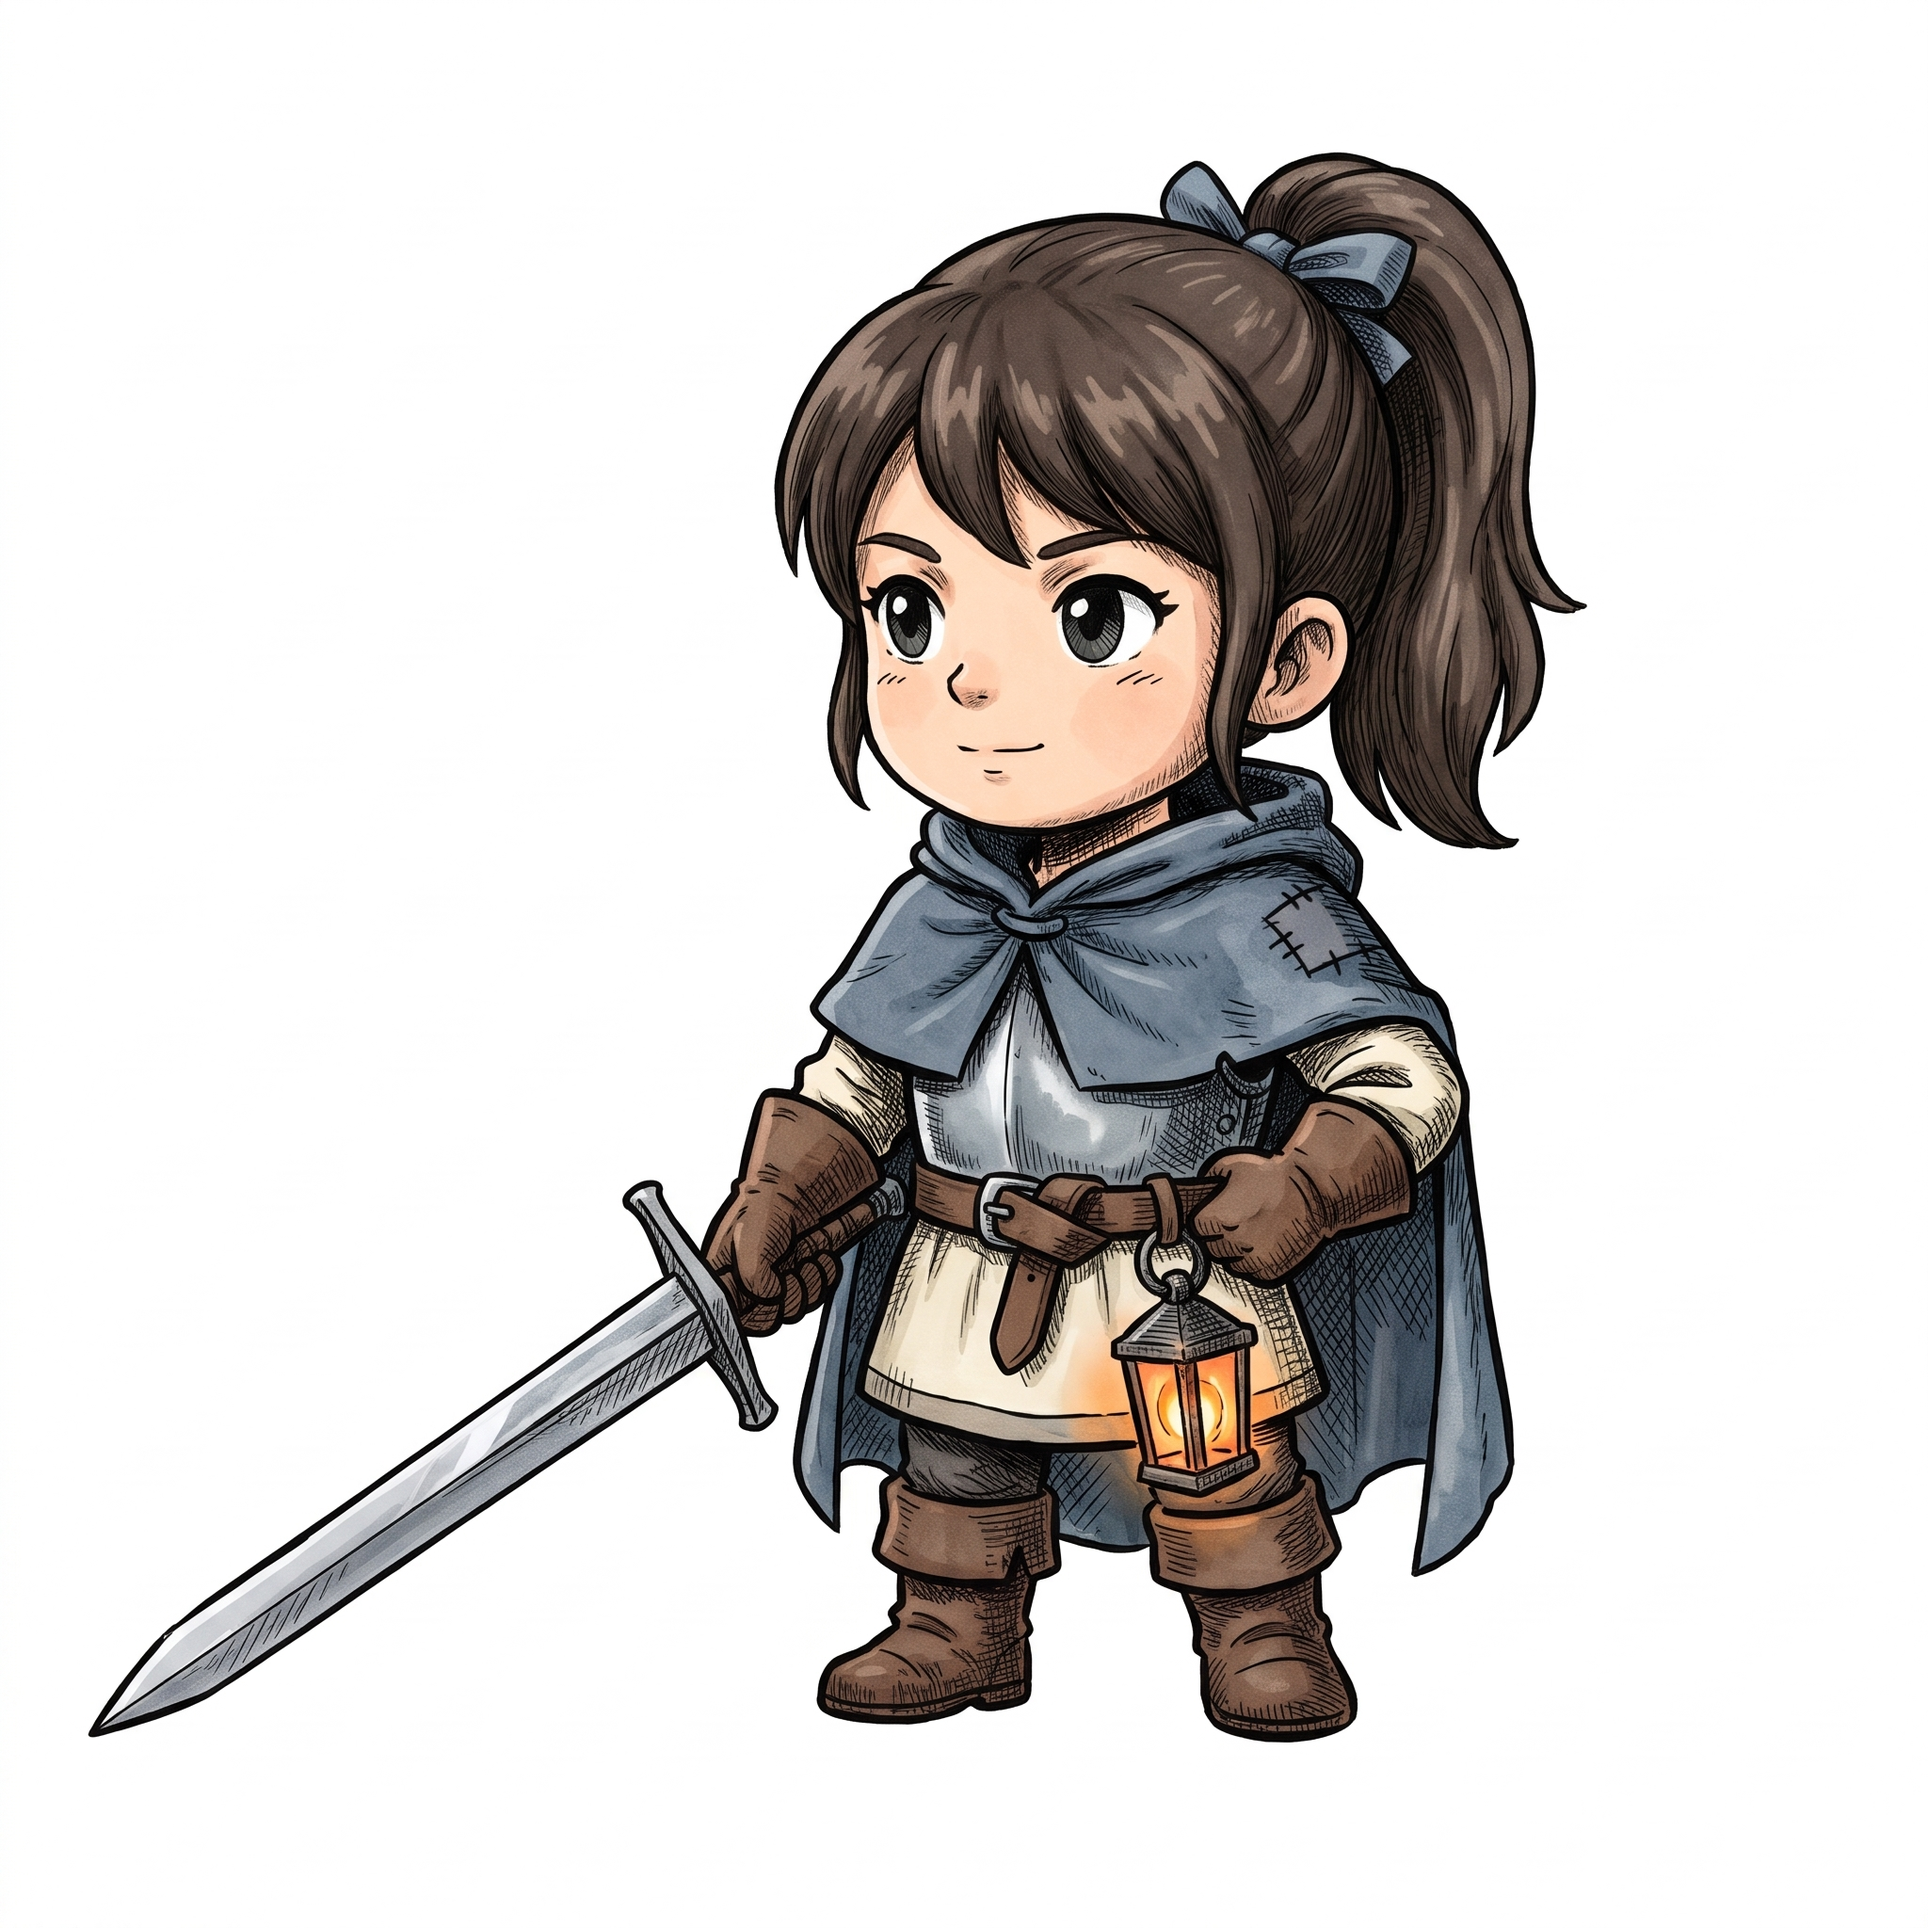
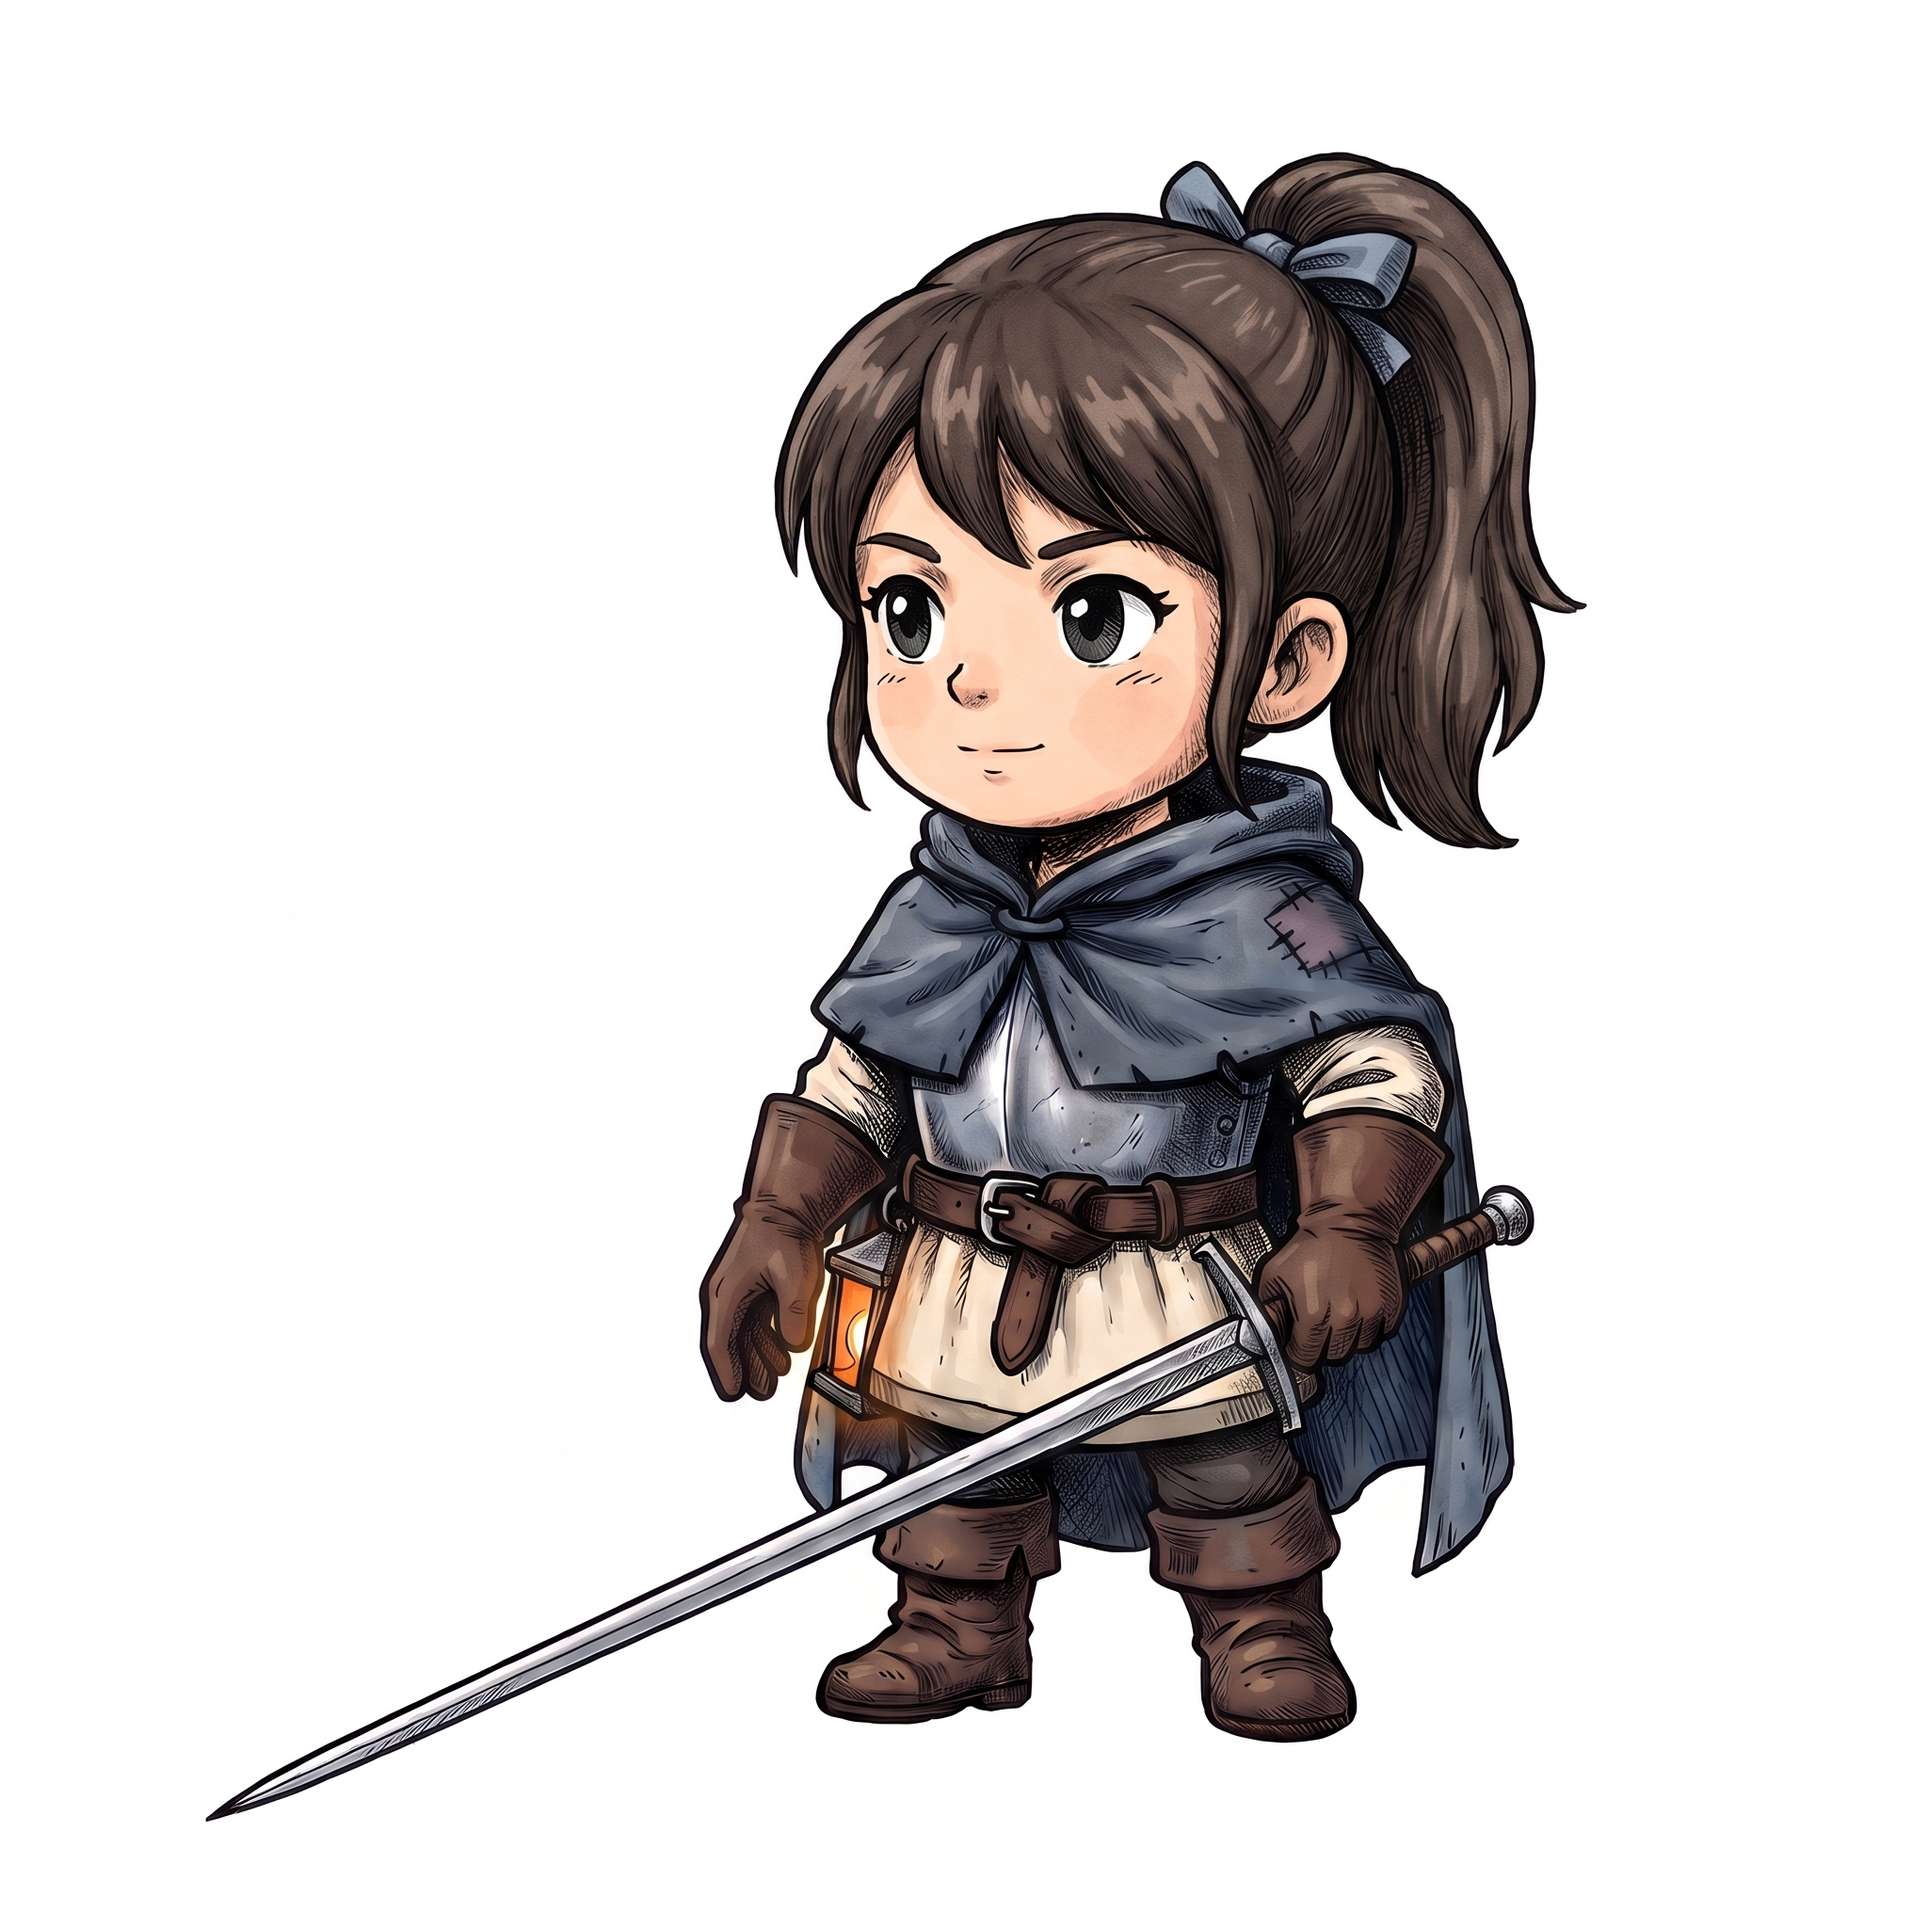
여자 기사 새 자세 적용, 기사 자세 기준 정리
Claude-Session: https://claude.ai/code/session_019ctizXkAJK8e2QXDcDEkS2

diff --git a/index.html b/index.html
@@ -288,7 +288,7 @@ const HEADS = [
 //   lanternPx: 허리 등불의 한가운데.  footPx: 두 발 사이의 x.  figurePx: 발끝에서 머리끝까지의 높이(화면 키 190에 맞춘다)
 const ARMORS = [
   { id:'basic', name:'기본', how:'처음부터', img:{ m:'art/knight/기본-남.png', f:'art/knight/기본-여.png' },
-    at:{ m:{ lanternPx:[454, 705], footPx:583, figurePx:836 }, f:{ lanternPx:[638, 741], footPx:578, figurePx:822 } }, ok:() => true },
+    at:{ m:{ lanternPx:[454, 705], footPx:583, figurePx:836 }, f:{ lanternPx:[454, 705], footPx:583, figurePx:860 } }, ok:() => true },
   { id:'armor2', name:'준비 중인 갑옷', how:'1구역 보스 처치', img:null, ok:() => false },
   { id:'armor3', name:'준비 중인 갑옷', how:'업적 · 이벤트', img:null, ok:() => false },
 ];

diff --git a/가이드라인.md b/가이드라인.md
@@ -183,7 +183,9 @@
 - 남자 기사와 여자 기사를 따로 그린다. 같은 옷, 같은 자세의 짝으로 그린다.
 - **얼굴이 보여야 한다.** 기본 모습은 투구를 쓰지 않는다. 투구와 모자는 머리 꾸밈으로 따로 씌운다.
 - 여자 기사의 옷도 노출이 많지 않게 그린다.
-- **모든 꾸밈은 같은 자세로 그린다.** 몸은 앞을 보되 살짝 왼쪽으로 틀고, 오른손에 든 무기를 옆으로 뻗은 자세. 그래야 갈아입혔을 때 크기와 위치가 어긋나지 않는다.
+- **모든 꾸밈은 같은 자세로 그린다.** 자세의 기준은 `art/knight/원본/기본-남.png`이다. 몸은 앞을 보고 살짝 왼쪽으로 틀고, 그림 왼쪽 손은 빈손으로 내리고, 그림 오른쪽 허리의 손이 길고 얇은 칼을 쥐고, 칼날은 다리 앞을 지나 왼쪽 아래로 뻗는다. 등불은 그림 왼쪽 허리에 단다.
+- 자세를 바꿀 때는 글로만 주문하면 잘 안 된다. `art/기준/기사-자세.png` 같은 자세 안내 그림을 함께 올린다.
+- 기사를 뽑을 때는 몬스터 그림 한 장을 함께 올려 선과 색의 결을 맞춘다. 게임에서 기사 둘레에 밝은 테두리를 두르지 않는다.
 - 흰 배경, 그림자 없음, 한 장에 한 사람.
 - 승인된 그림은 `art/knight/`에 둔다. 이름은 `기본-남.png`, `기본-여.png`처럼 꾸밈 이름과 성별로 짓는다.
 
